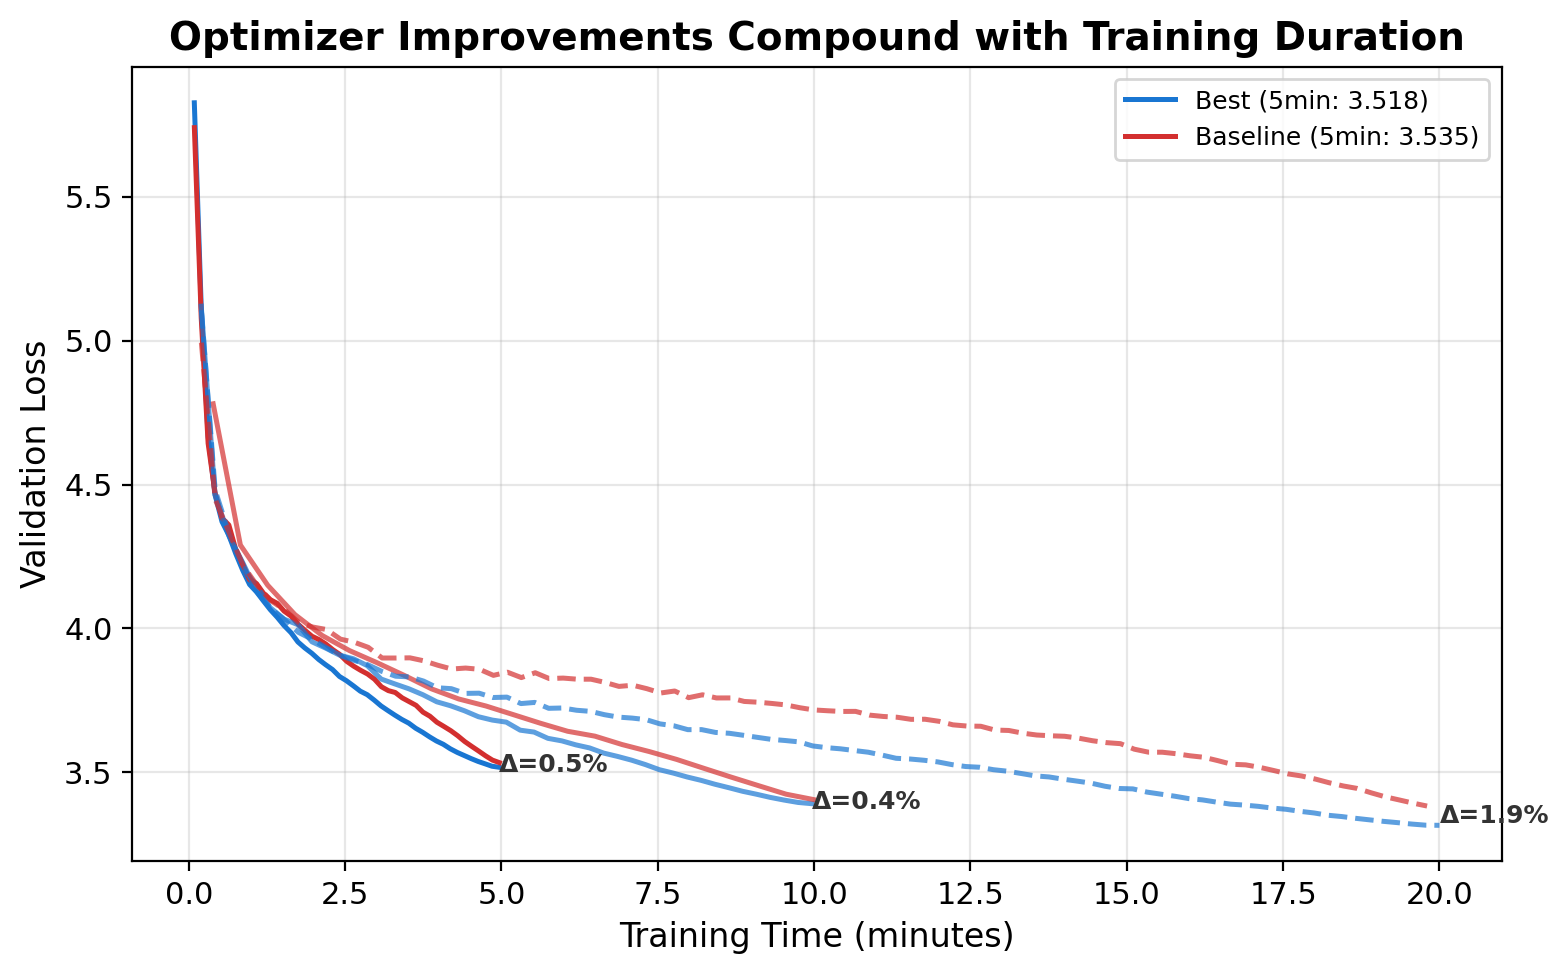
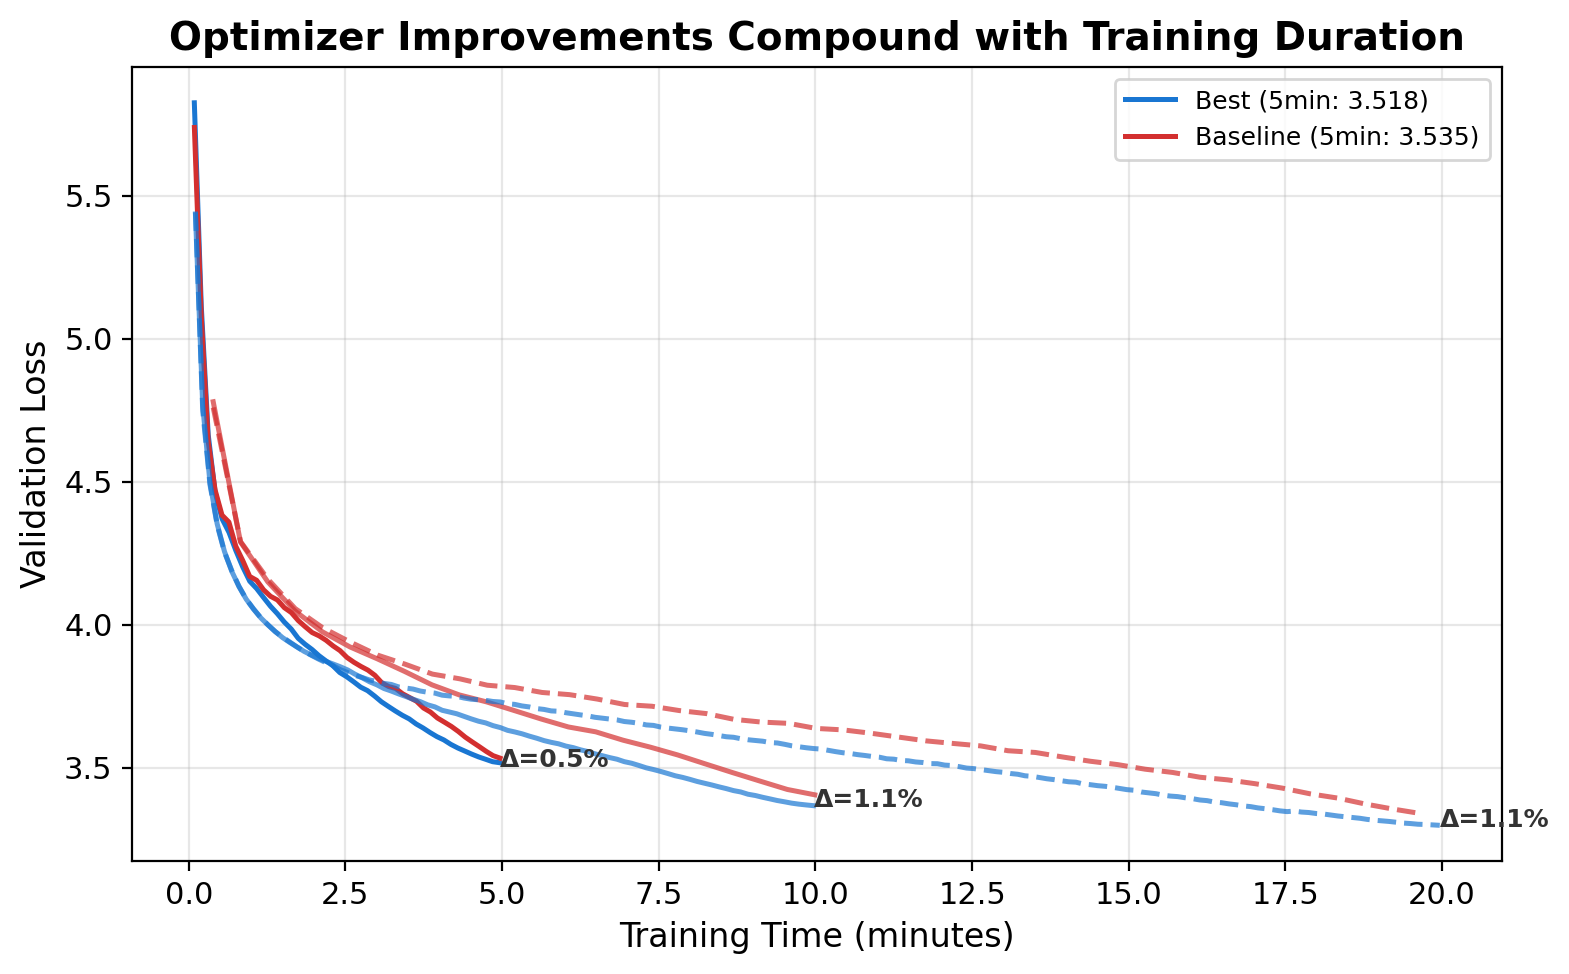
sweep28 convergence data + updated paper figures
Sweep28 paper-quality convergence curves:
- best_10min: 3.368 (86 convergence points)
- best_20min: 3.299 (172 points, text BPB < 1.0!)
- baseline_20min: 3.334 (45 points)

Duration comparison:
  5min:  Δ=1.9% (3.478 vs 3.544, multi-seed)
  10min: Δ=1.1% (3.368 vs 3.405)
  20min: Δ=1.1% (3.299 vs 3.334)

diff --git a/plot_paper_figures.py b/plot_paper_figures.py
@@ -92,16 +92,17 @@ if ablation_5min:
 # Figure 2: Best vs baseline at different durations
 # ============================================================
 
-# Collect all best-vs-baseline convergence data
+# Collect best-vs-baseline convergence data
+# Prefer paper-quality data (sweep27-28) over older sweeps
 best_curves = {}
 baseline_curves = {}
 
-for fname, data in {**long_runs, **paper_10min}.items():
+# First load older data (sweep22 long runs)
+for fname, data in long_runs.items():
     desc = data["desc"]
     c = data["curve"]
     time_min = [p["time"] / 60 for p in c]
     vl = [p["val_loss"] for p in c]
-
     if "best" in desc.lower() and "baseline" not in desc.lower():
         duration = "10min" if "10min" in desc else "20min" if "20min" in desc else "5min"
         best_curves[duration] = (time_min, vl, data["val_loss"])
@@ -109,15 +110,28 @@ for fname, data in {**long_runs, **paper_10min}.items():
         duration = "10min" if "10min" in desc else "20min" if "20min" in desc else "5min"
         baseline_curves[duration] = (time_min, vl, data["val_loss"])
 
-# Also add 5min ablation data if available
+# Then overwrite with paper-quality data (sweep27-28) where available
+for fname, data in paper_10min.items():
+    desc = data["desc"]
+    c = data["curve"]
+    time_min = [p["time"] / 60 for p in c]
+    vl = [p["val_loss"] for p in c]
+    if "best" in desc.lower() and "baseline" not in desc.lower():
+        duration = "10min" if "10min" in desc else "20min" if "20min" in desc else "5min"
+        best_curves[duration] = (time_min, vl, data["val_loss"])
+    elif "baseline" in desc.lower():
+        duration = "10min" if "10min" in desc else "20min" if "20min" in desc else "5min"
+        baseline_curves[duration] = (time_min, vl, data["val_loss"])
+
+# Add 5min ablation data only if no paper data for 5min
 for fname, data in ablation_5min.items():
     desc = data["desc"]
     c = data["curve"]
     time_min = [p["time"] / 60 for p in c]
     vl = [p["val_loss"] for p in c]
-    if "full_best" in desc:
+    if "full_best" in desc and "5min" not in best_curves:
         best_curves["5min"] = (time_min, vl, data["val_loss"])
-    elif "original_baseline" in desc:
+    elif "original_baseline" in desc and "5min" not in baseline_curves:
         baseline_curves["5min"] = (time_min, vl, data["val_loss"])
 
 if best_curves or baseline_curves:
